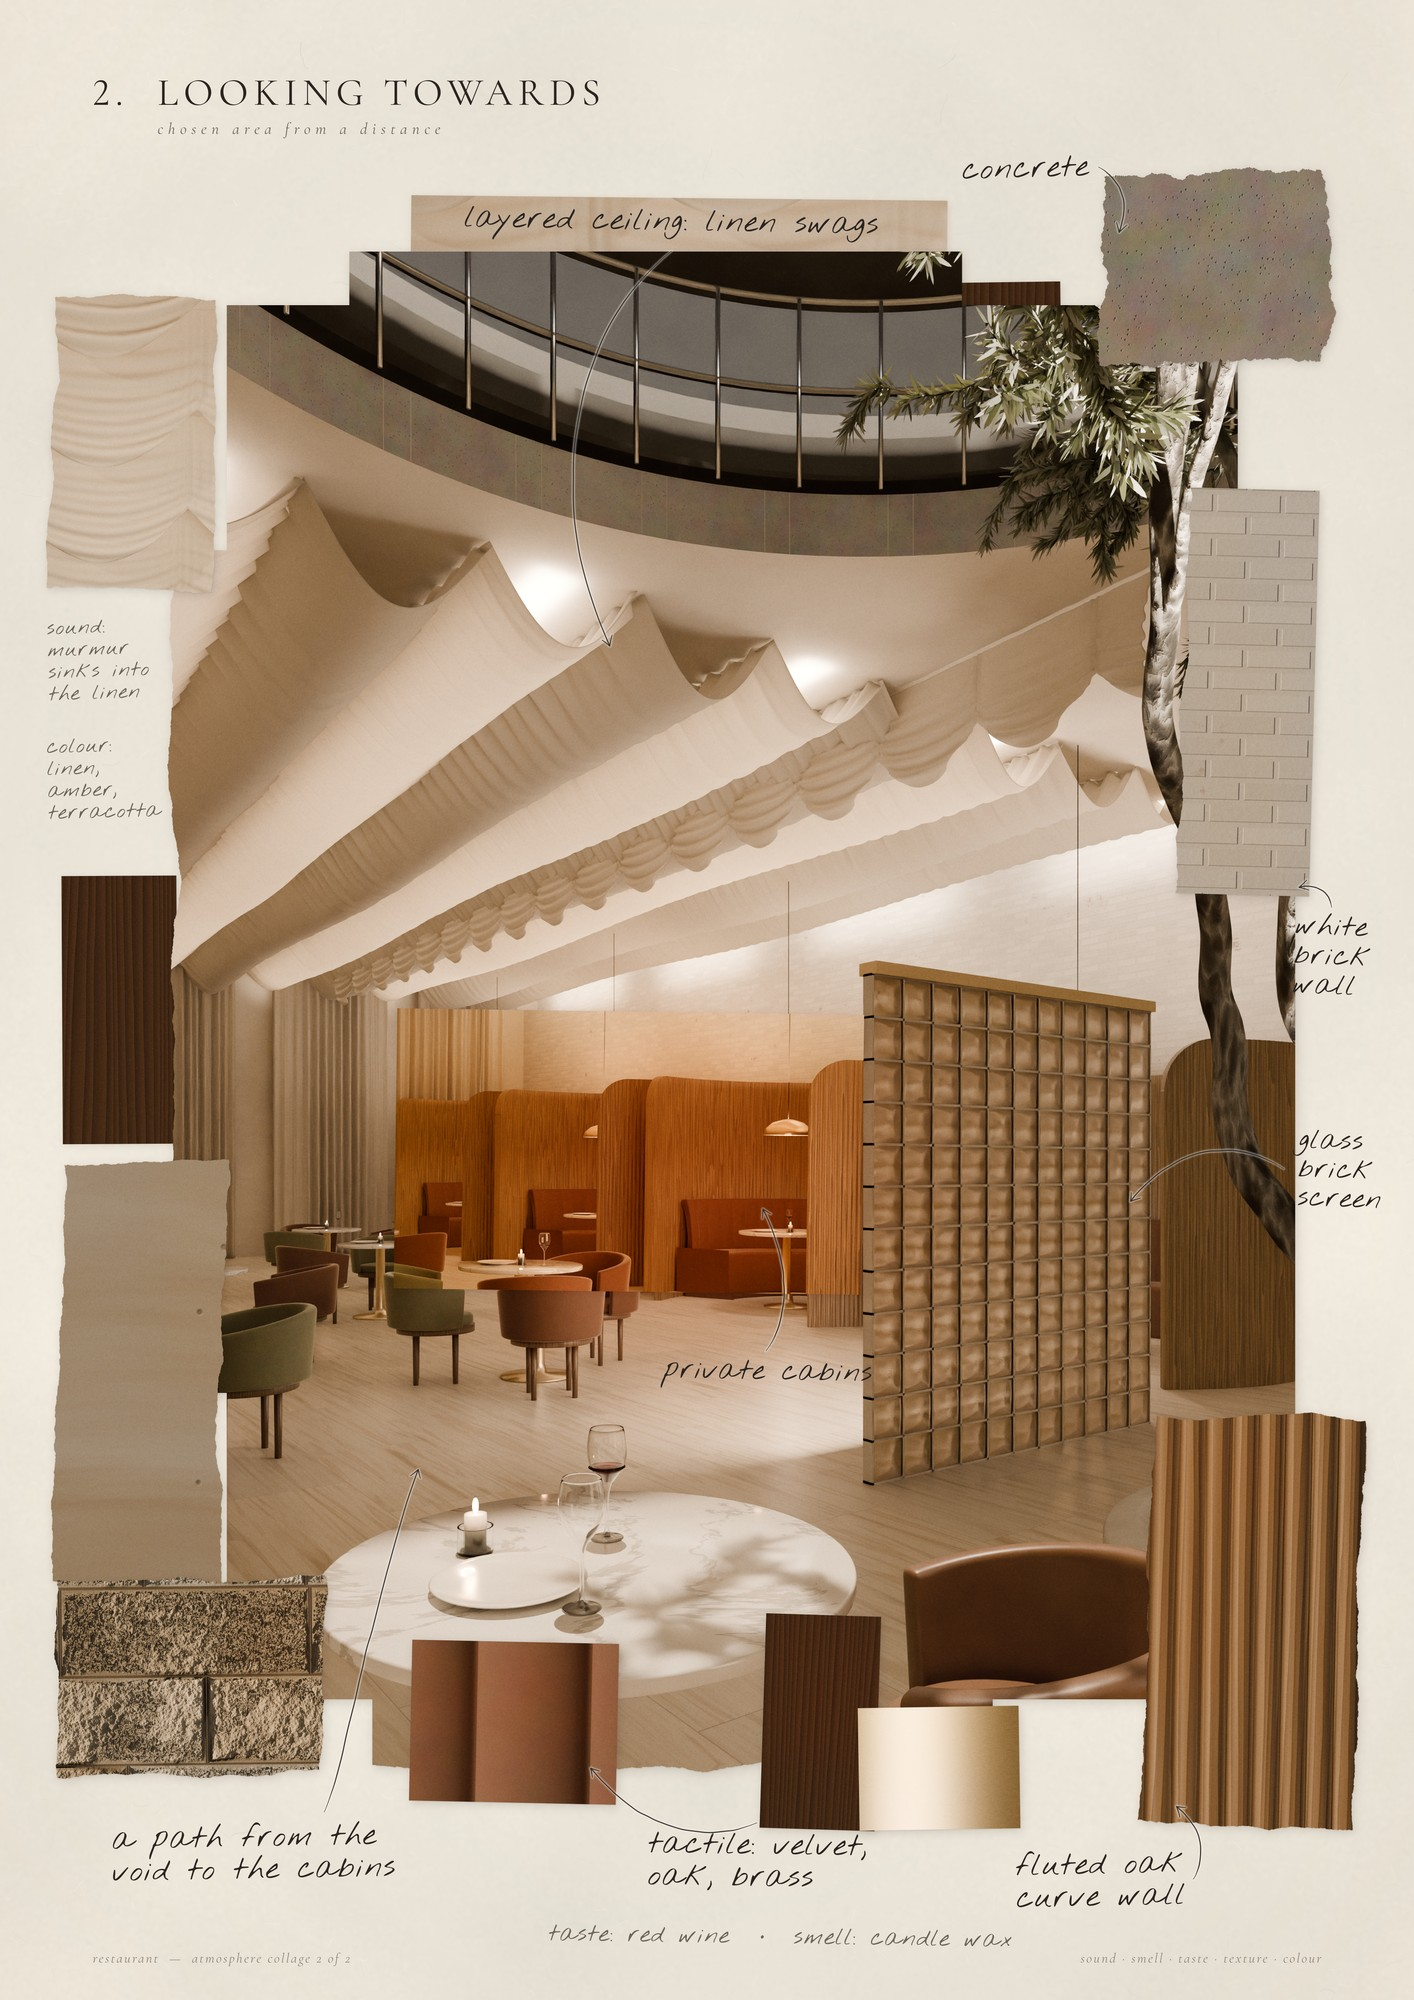
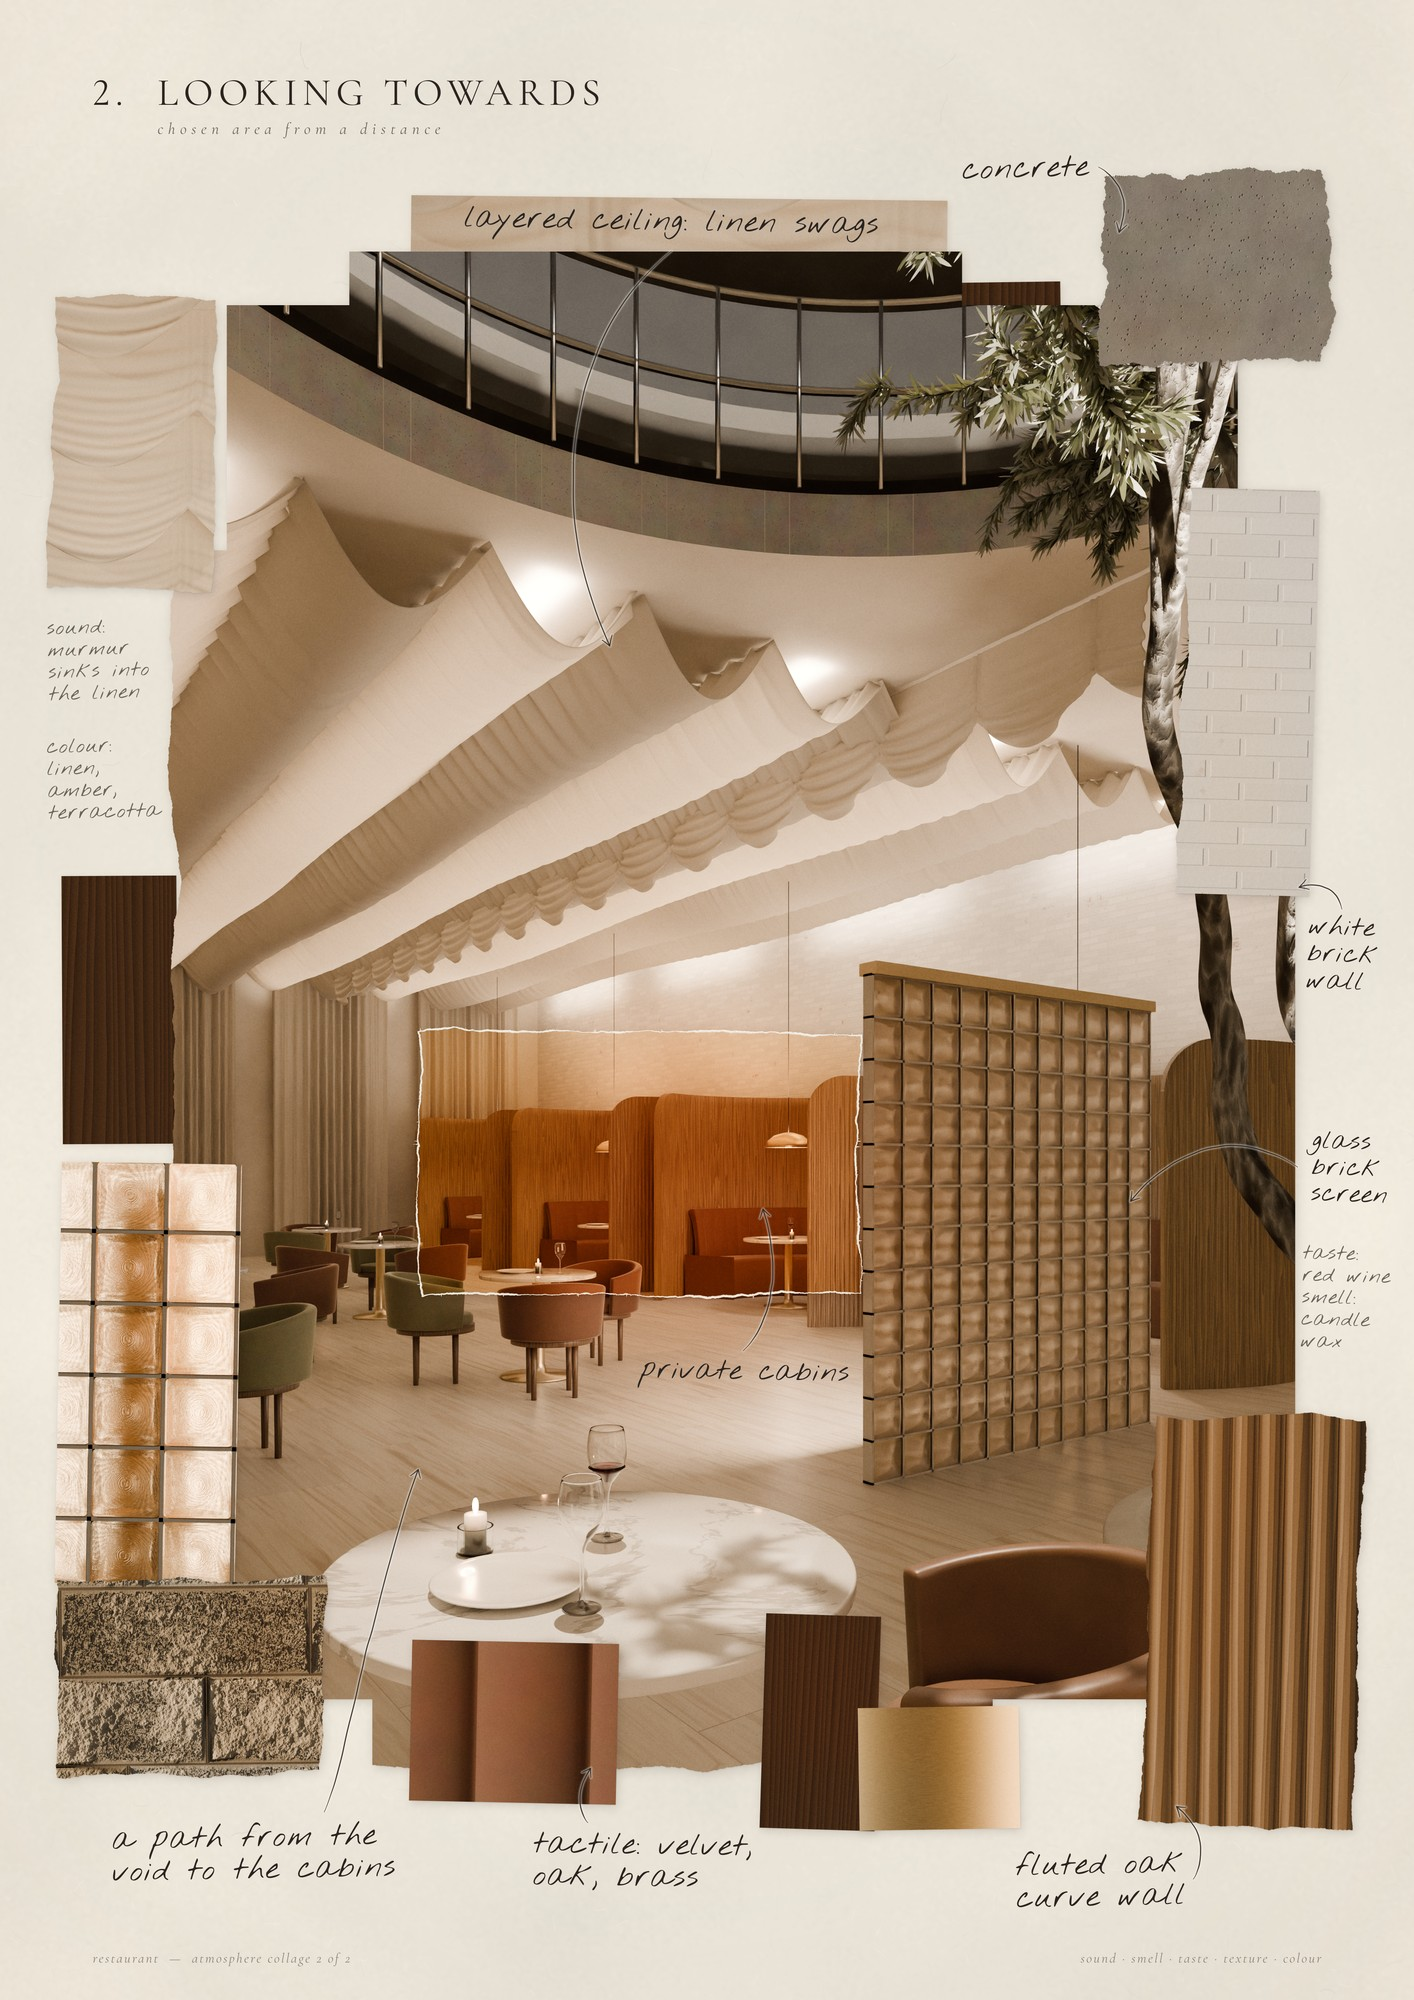
V2 sheet 2: QA fixes (registered torn print of the cabins, notes clear of the render, brass and concrete crops/tones, glass-brick fragment, whiter brick, senses off the footer); re-exported and verified
Claude-Session: https://claude.ai/code/session_018fLRhHpFQLQU35dE5BneQQ

diff --git a/restaurant-collages/src/v2/layout.py b/restaurant-collages/src/v2/layout.py
@@ -66,6 +66,8 @@ CALM = {'color': '#8C8C8C', 'blend': 'saturation', 'opacity': 0.32}    # tame CG
 VIEW_TONE = {'color': '#8C8C8C', 'blend': 'saturation', 'opacity': 0.35}
 EDGE = {'rim': False, 'tear': 0.5, 'shadow': (5, 7, 14, 0.20)}
 LIFT = {'rim': False, 'tear': 0.4, 'shadow': (4, 6, 10, 0.18)}
+CONCRETE = {'color': '#857A6C', 'blend': 'color', 'opacity': 0.75}   # one warm grey over the swatch's mottle
+WHITEN = {'color': '#FFFFFF', 'blend': 'screen', 'opacity': 0.35}     # lime-washed brick reads white
 
 SHEET1 = {
     'title': {'text': '1.  LOOKING FROM WITHIN', 'x': 230, 'y': 200, 'size': 96, 'tracking': 140},
@@ -94,17 +96,17 @@ SHEET1 = {
         ('sheer_fabric',     (0.15, 0.10, 0.85, 0.60),  (2560, 380, 720, 820),      1.1, 'LB',   'behind', 102),
         # ---- in front of the view
         ('olive_leaves',     (0.18, 0.24, 0.92, 0.60),  (60, 470, 470, 560),        1.5, 'torn', 'front',  201),
-        ('concrete',         (0.20, 0.10, 0.60, 0.45),  (880, 420, 360, 300),      -1.2, 'torn', 'front',  202, {'tear': 1.0}),
+        ('concrete',         (0.20, 0.10, 0.60, 0.45),  (880, 420, 360, 300),      -1.2, 'torn', 'front',  202, {'tear': 1.0, 'tone': CONCRETE}),
         ('split_face_stone', (0.05, 0.05, 0.30, 0.40),  (40, 1300, 450, 820),       0.6, 'torn', 'front',  203),
         ('dark_timber',      (0.55, 0.30, 0.80, 0.70),  (60, 3000, 480, 1050),     -0.5, 'torn', 'front',  204, {'tone': DARK}),
         ('split_face_stone', (0.05, 0.55, 0.95, 0.95),  (60, 3990, 980, 600),      -0.8, 'torn', 'front',  205),
         ('glass_block',      (0.05, 0.15, 0.60, 0.75),  (980, 3900, 560, 700),      0.9, 'cut',  'front',  206),
-        ('brass',            (0.20, 0.20, 0.60, 0.55),  (1480, 4200, 500, 420),    -0.5, 'cut',  'front',  207),
+        ('brass',            (0.50, 0.20, 0.90, 0.55),  (1480, 4200, 500, 420),    -0.5, 'cut',  'front',  207),
         ('velvet',           (0.20, 0.30, 0.60, 0.52),  (1940, 4320, 380, 300),    -1.6, 'cut',  'front',  104, {'tone': CALM}),
         ('linen_drape',      (0.10, 0.05, 0.60, 0.95),  (2980, 820, 470, 1080),    -0.7, 'TB',   'front',  208),
         ('glass_block',      (0.50, 0.10, 0.85, 0.80),  (3150, 2200, 330, 860),     0.4, 'cut',  'front',  209),
-        ('travertine',       (0.55, 0.05, 0.85, 0.70),  (3130, 3260, 350, 880),    -1.3, 'torn', 'front',  210),
-        ('concrete',         (0.20, 0.10, 0.55, 0.55),  (2250, 4080, 460, 560),     2.0, 'torn', 'front',  211, {'tear': 1.0}),
+        ('sheer_fabric',     (0.30, 0.10, 0.70, 0.90),  (3130, 3260, 350, 880),    -1.3, 'torn', 'front',  210),
+        ('concrete',         (0.20, 0.10, 0.55, 0.55),  (2250, 4080, 460, 560),     2.0, 'torn', 'front',  211, {'tear': 1.0, 'tone': CONCRETE}),
         ('dark_timber',      (0.55, 0.30, 0.80, 0.70),  (2620, 4000, 300, 620),     1.4, 'cut',  'front',  105, {'tone': DARK}),
     ],
 
@@ -172,34 +174,34 @@ SHEET2 = {
         ('dark_timber',      (0.55, 0.10, 0.85, 0.95),  (70, 2150, 300, 700),       0.3, 'cut',  'behind', 403, {'tone': DARK}),
         # ---- in front
         ('linen_drape',      (0.45, 0.20, 0.95, 0.90),  (40, 640, 430, 760),       -0.8, 'torn', 'front',  501),
-        ('concrete',         (0.05, 0.05, 0.75, 0.55),  (2780, 330, 600, 470),      1.3, 'torn', 'front',  502, {'tear': 1.0}),
-        ('white_brick',      (0.30, 0.05, 0.75, 0.95),  (3000, 1140, 340, 1060),   -1.5, 'L',    'front',  503),
-        ('travertine',       (0.15, 0.15, 0.55, 0.85),  (60, 2900, 430, 1100),     -1.0, 'torn', 'front',  504),
+        ('concrete',         (0.05, 0.05, 0.75, 0.55),  (2780, 330, 600, 470),      1.3, 'torn', 'front',  502, {'tear': 1.0, 'tone': CONCRETE}),
+        ('white_brick',      (0.30, 0.05, 0.75, 0.95),  (3000, 1140, 340, 1060),   -1.5, 'L',    'front',  503, {'tone': WHITEN}),
+        ('glass_block',      (0.00, 0.05, 0.50, 0.95),  (60, 2900, 470, 1100),     -1.0, 'cut',  'front',  504),
         ('fluted_oak',       (0.10, 0.05, 0.60, 0.95),  (2900, 3560, 560, 1080),   -1.1, 'torn', 'front',  505),
         ('split_face_stone', (0.05, 0.30, 0.80, 0.70),  (50, 3980, 700, 520),       0.7, 'torn', 'front',  506),
         ('velvet',           (0.10, 0.20, 0.55, 0.50),  (980, 4150, 540, 420),     -1.2, 'cut',  'front',  404, {'tone': CALM}),
         ('dark_timber',      (0.05, 0.05, 0.30, 0.90),  (1900, 4080, 300, 560),    -1.8, 'cut',  'front',  509, {'tone': DARK}),
-        ('brass',            (0.10, 0.30, 0.55, 0.65),  (2150, 4320, 420, 320),     0.9, 'cut',  'front',  508),
+        ('brass',            (0.50, 0.30, 0.90, 0.60),  (2150, 4320, 420, 320),     0.9, 'cut',  'front',  508),
     ],
 
     'echoes': [
-        ((1000, 2560, 2150, 3250),     1.06,  (-25, -35), -0.8, 'cut',  601, LIFT),      # the cabins lift forward
+        ((1000, 2560, 2150, 3250),     1.0,   (0, 0),      0.0, 'torn', 601, {**LIFT, 'rim': True, 'shadow': (6, 9, 14, 0.26)}),   # the cabins, a registered torn print lifted off the view
     ],
 
     'notes': [
         ('layered ceiling: linen swags', (1120, 455), -1.0, (1500, 1550), 0.25, {'from': 'below'}),
         ('concrete',              (2420, 330),       1.5,  (2830, 470),   -0.30, {'from': 'right'}),
-        ('private cabins',        (1640, 3460),     -1.0,  (1900, 3020),   0.20, {'from': 'above', 'size': 72}),
-        ('white\nbrick\nwall',    (3290, 2300),     -2.5,  (3300, 2180),   0.35, {'from': 'above', 'gap': 14, 'size': 72}),
-        ('glass\nbrick\nscreen',  (3300, 2860),     -2.0,  (2860, 3000),   0.30, {'from': 'left', 'size': 70}),
+        ('private cabins',        (1580, 3460),     -1.0,  (1900, 3020),   0.20, {'from': 'above', 'size': 72}),
+        ('white\nbrick\nwall',    (3325, 2300),     -2.5,  (3300, 2180),   0.35, {'from': 'above', 'gap': 14, 'size': 66}),
+        ('glass\nbrick\nscreen',  (3335, 2860),     -2.0,  (2860, 3000),   0.30, {'from': 'left', 'size': 64}),
         ('a path from the\nvoid to the cabins', (200, 4690), 1.0, (1000, 3700), -0.30,
          {'from': 'above_right', 'c1': (820, 4450), 'c2': (900, 3950)}),
-        ('tactile: velvet,\noak, brass', (1600, 4700), -0.8, (1450, 4480), -0.25, {'from': 'above'}),
+        ('tactile: velvet,\noak, brass', (1300, 4700), -0.8, (1450, 4480), -0.25, {'from': 'above_left'}),
         ('fluted oak\ncurve wall', (2560, 4760),     1.2,  (2980, 4580),   0.30, {'from': 'right'}),
         # the senses
         ('sound:\nmurmur\nsinks into\nthe linen', (30, 1520), 2.0, None,  0.0,  {'style': 'sense', 'size': 52}),
         ('colour:\nlinen,\namber,\nterracotta', (30, 1830), 1.5, None,   0.0,  {'style': 'sense', 'size': 52}),
-        ('taste: red wine  ·  smell: candle wax', (1340, 4930), -0.8, None, 0.0, {'style': 'sense'}),
+        ('taste:\nred wine\nsmell:\ncandle\nwax', (3310, 3150), -1.5, None, 0.0, {'style': 'sense', 'size': 52}),
     ],
 
     'intensity': {
